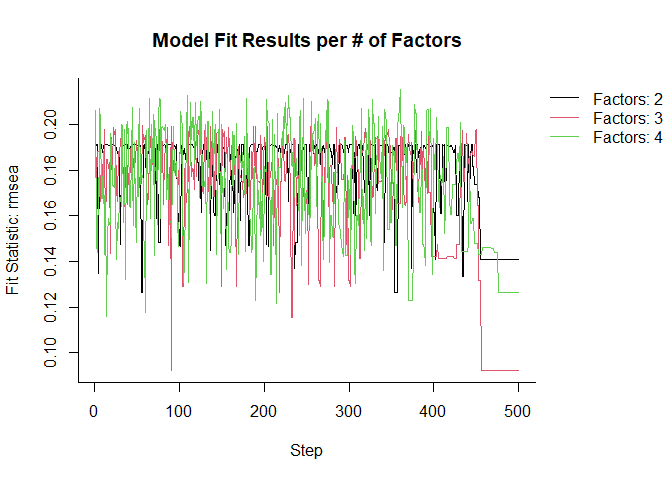
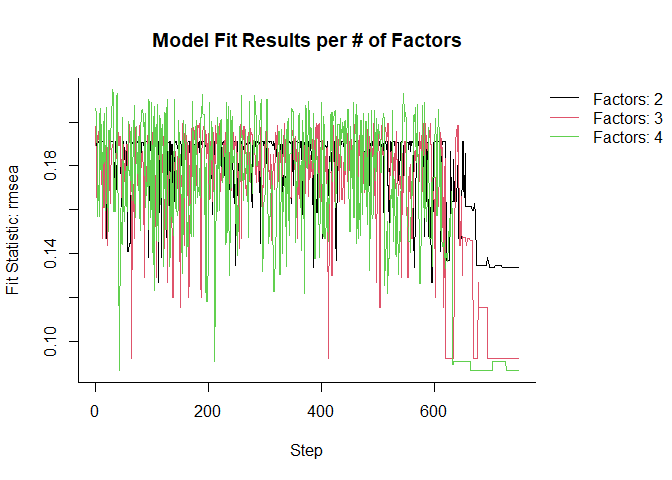
Added travis and codecov badges

diff --git a/README.md b/README.md
@@ -3,6 +3,10 @@ mecfa README
 Anthony Raborn
 2021-05-18
 
+[![Build
+Status](https://travis-ci.org/AnthonyRaborn/mecfa.svg?branch=stable)](https://travis-ci.org/AnthonyRaborn/mecfa)
+[![codecov](https://codecov.io/gh/AnthonyRaborn/mecfa/branch/stable/graph/badge.svg?token=WSCSO01ROR)](https://codecov.io/gh/AnthonyRaborn/mecfa)
+
 # mecfa: Metaheuristic Exploratory/Confirmatory Factor Analysis
 
 An R package which utilizes metaheuristic algorithms to simultaneously
@@ -123,7 +127,7 @@ cat(
 
 ``` r
 maxSteps <-
-  500
+  750
 fitStatistic <-
   "rmsea"
 maximize <-
@@ -190,7 +194,7 @@ example
 ```
 
     ## ECFA Algorithm: Simulated Annealing
-    ## Total Run Time: 3.986 mins
+    ## Total Run Time: 5.809 mins
     ## ECFA Function Call:
     ## exploratorySA(initialModels = initialModels, originalData = testData, maxSteps =
     ##   maxSteps, fitStatistic = fitStatistic, maximize = maximize, lavaan.model.specs
@@ -202,38 +206,40 @@ example
     ##   ordered, int.ov.free = int.ov.free, int.lv.free = int.lv.free, auto.fix.first
     ##   = auto.fix.first, std.lv = std.lv, auto.fix.single = auto.fix.single, auto.var
     ##   = auto.var, auto.cov.lv.x = auto.cov.lv.x, auto.efa = auto.efa, auto.th =
-    ##   auto.th, auto.delta = auto.delta, auto.cov.y = auto.cov.y), originalData =
-    ##   originalData, maxSteps = maxSteps, fitStatistic = fitStatistic, temperature
-    ##   = temperature, maximize = maximize, Kirkpatrick = Kirkpatrick, randomNeighbor
-    ##   = randomNeighbor, lavaan.model.specs = lavaan.model.specs, maxChanges
-    ##   = maxChanges, restartCriteria = restartCriteria, maximumConsecutive =
-    ##   maximumConsecutive, bifactor = bifactor)
+    ##   auto.th, auto.delta = auto.delta, auto.cov.y = auto.cov.y, missing = missing),
+    ##   originalData = originalData, maxSteps = maxSteps, fitStatistic = fitStatistic,
+    ##   temperature = temperature, maximize = maximize, Kirkpatrick = Kirkpatrick,
+    ##   randomNeighbor = randomNeighbor, lavaan.model.specs = lavaan.model.specs,
+    ##   maxChanges = maxChanges, restartCriteria = restartCriteria, maximumConsecutive
+    ##   = maximumConsecutive, bifactor = bifactor)
     ## 
     ## Final Model Syntax:
-    ## speed =~ x7 + x8 + x9
-    ## textual =~ x1 + x2 + x3
-    ## visual =~ x4 + x5 + x6
-    ## textual ~~ speed
-    ## visual ~~ speed + textual
-    ## Best Model Fit Using rmsea: 0.092
+    ## accuracy =~ x4 + x5 + x6
+    ## speed =~ x1 + x2
+    ## textual =~ x7 + x8
+    ## visual =~ x3 + x9
+    ## speed ~~ accuracy
+    ## textual ~~ accuracy + speed
+    ## visual ~~ accuracy + speed + textual
+    ## Best Model Fit Using rmsea: 0.086
 
 ``` r
 # summary method
 summary(example)
 ```
 
-    ## lavaan 0.6-8 ended normally after 20 iterations
+    ## lavaan 0.6-8 ended normally after 28 iterations
     ## 
     ##   Estimator                                         ML
     ##   Optimization method                           NLMINB
-    ##   Number of model parameters                        21
+    ##   Number of model parameters                        24
     ##                                                       
     ##   Number of observations                           301
     ##                                                       
     ## Model Test User Model:
     ##                                                       
-    ##   Test statistic                                85.306
-    ##   Degrees of freedom                                24
+    ##   Test statistic                                68.168
+    ##   Degrees of freedom                                21
     ##   P-value (Chi-square)                           0.000
     ## 
     ## Parameter Estimates:
@@ -244,41 +250,47 @@ summary(example)
     ## 
     ## Latent Variables:
     ##                    Estimate  Std.Err  z-value  P(>|z|)
+    ##   accuracy =~                                         
+    ##     x4                0.990    0.057   17.487    0.000
+    ##     x5                1.102    0.063   17.598    0.000
+    ##     x6                0.916    0.054   17.068    0.000
     ##   speed =~                                            
-    ##     x7                0.619    0.070    8.903    0.000
-    ##     x8                0.731    0.066   11.090    0.000
-    ##     x9                0.670    0.065   10.305    0.000
+    ##     x1                0.821    0.088    9.291    0.000
+    ##     x2                0.496    0.076    6.516    0.000
     ##   textual =~                                          
-    ##     x1                0.900    0.081   11.128    0.000
-    ##     x2                0.498    0.077    6.429    0.000
-    ##     x3                0.656    0.074    8.817    0.000
+    ##     x7                0.658    0.076    8.647    0.000
+    ##     x8                0.813    0.079   10.299    0.000
     ##   visual =~                                           
-    ##     x4                0.990    0.057   17.474    0.000
-    ##     x5                1.102    0.063   17.576    0.000
-    ##     x6                0.917    0.054   17.082    0.000
+    ##     x3                0.585    0.072    8.127    0.000
+    ##     x9                0.639    0.067    9.521    0.000
     ## 
     ## Covariances:
     ##                    Estimate  Std.Err  z-value  P(>|z|)
+    ##   speed ~~                                            
+    ##     accuracy          0.547    0.076    7.224    0.000
     ##   textual ~~                                          
-    ##     speed             0.471    0.073    6.461    0.000
+    ##     accuracy          0.208    0.071    2.926    0.003
+    ##     speed             0.302    0.091    3.310    0.001
     ##   visual ~~                                           
-    ##     speed             0.283    0.069    4.117    0.000
-    ##     textual           0.459    0.064    7.189    0.000
+    ##     accuracy          0.375    0.080    4.654    0.000
+    ##     speed             1.001    0.105    9.505    0.000
+    ##     textual           0.710    0.085    8.332    0.000
     ## 
     ## Variances:
     ##                    Estimate  Std.Err  z-value  P(>|z|)
+    ##     accuracy          1.000                           
     ##     speed             1.000                           
     ##     textual           1.000                           
     ##     visual            1.000                           
-    ##    .x1                0.549    0.114    4.833    0.000
-    ##    .x2                1.134    0.102   11.146    0.000
-    ##    .x3                0.844    0.091    9.317    0.000
-    ##    .x4                0.371    0.048    7.779    0.000
-    ##    .x5                0.446    0.058    7.642    0.000
-    ##    .x6                0.356    0.043    8.277    0.000
-    ##    .x7                0.799    0.081    9.823    0.000
-    ##    .x8                0.488    0.074    6.573    0.000
-    ##    .x9                0.566    0.071    8.003    0.000
+    ##    .x1                0.684    0.123    5.577    0.000
+    ##    .x2                1.136    0.101   11.269    0.000
+    ##    .x3                0.932    0.089   10.520    0.000
+    ##    .x4                0.371    0.048    7.788    0.000
+    ##    .x5                0.445    0.058    7.640    0.000
+    ##    .x6                0.358    0.043    8.316    0.000
+    ##    .x7                0.750    0.091    8.281    0.000
+    ##    .x8                0.360    0.106    3.389    0.001
+    ##    .x9                0.607    0.073    8.257    0.000
 
 ``` r
 # plot method
@@ -287,4 +299,4 @@ plot(example)
 
 ![](README_files/figure-gfm/investigate-results-1.png)<!-- -->
 
-It took a total of 4 mins to compile this document.
+It took a total of 5.83 mins to compile this document.
